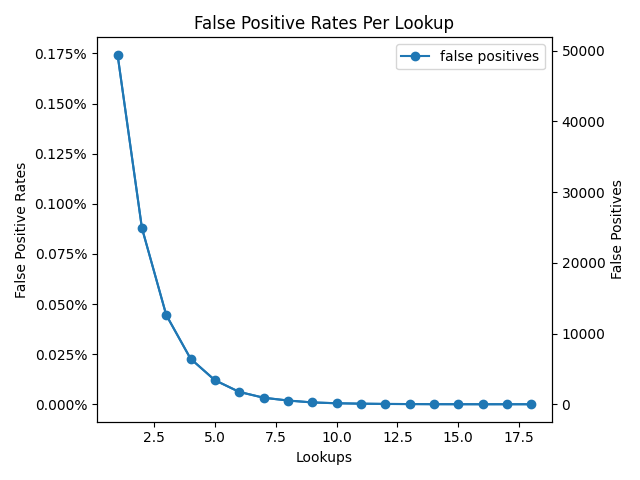
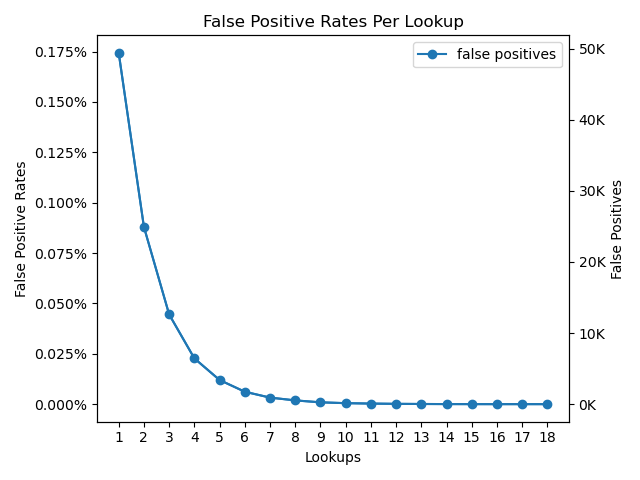
update xticks

diff --git a/scripts/cert_fp_rates.py b/scripts/cert_fp_rates.py
@@ -32,6 +32,8 @@ print(fp_decr)
 # lup_round.pop(0)
 
 fig, fp1 = plt.subplots()
+fp1.locator_params(integer=True)
+plt.xticks(np.arange(min(lup_round), max(lup_round)+1, 1.0))
 fp1.plot(lup_round, percent_fp, marker = 'o', label="false positives")
 fp1.legend(loc = "upper right")
 fp1.set_xlabel("Lookups")
@@ -41,6 +43,8 @@ plt.title("False Positive Rates Per Lookup")
 
 fp2 = fp1.twinx()
 fp2.plot(lup_round, fp)
+yticklabels = ['{:,}'.format(int(y)) + 'K' for y in fp2.get_yticks()/1000]
+fp2.set_yticklabels(yticklabels)
 fp2.set_ylabel("False Positives")
 
 fig.tight_layout()
@@ -48,7 +52,7 @@ fig.tight_layout()
 """
 cell_text = [lup_round, fp, np.array(['%1.5f' % x for x in percent_fp])]
 
-# Add a table at the bottom of the axes
+# Add a table at the bottom of the fp1es
 table = plt.table(cellText=cell_text,
                         rowLabels=rows,
                         cellLoc='center',

diff --git a/scripts/cert_rehash_dist.py b/scripts/cert_rehash_dist.py
@@ -38,14 +38,13 @@ print(percent_cumu)
 
 # fig = plt.figure()
 fig, ax = plt.subplots()
+ax.locator_params(integer=True)
+plt.xticks(np.arange(min(rehash), max(rehash)+1, 1.0))
 # rehash.pop(0)
 rehash = [int(i) for i in rehash]
-cutoff = 13
-plt.bar(rehash[:cutoff], percent_cumu[:cutoff], color='y', label='cumulative')
-plt.bar(rehash[:cutoff], percent_count[:cutoff], label='specific count')
+plt.bar(rehash, percent_cumu, color='y', label='cumulative')
+plt.bar(rehash, percent_count, label='specific count')
 plt.plot(loc = "upper right")
-xticklabels = ['{}'.format(int(x)) for x in ax.get_xticks()]
-ax.set_xticklabels(xticklabels)
 plt.xlabel("Rehash Count")
 plt.ylabel("Frequency out of Total Buckets")
 plt.title("Bucket Rehashing Frequency Distribution")
